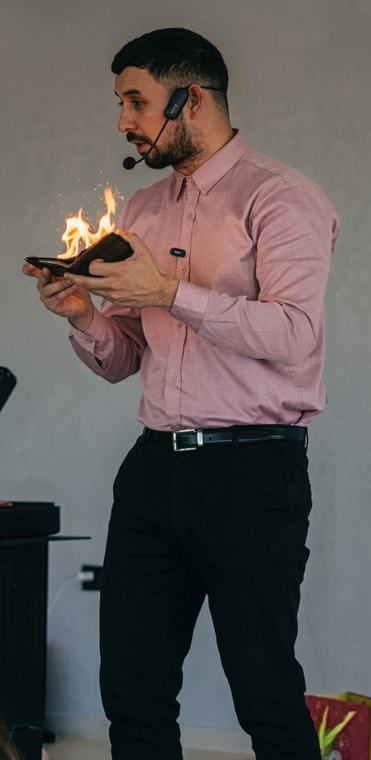
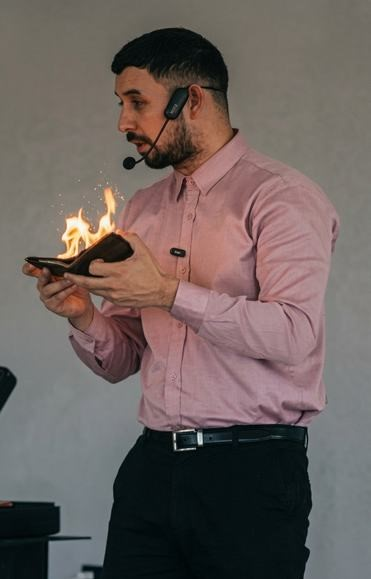
mensaje

diff --git a/portfolio.html b/portfolio.html
@@ -177,7 +177,9 @@
       <a href="imagenes/portfolio/sesion-05.jpg" data-lightbox data-cat="sesion"><img src="imagenes/portfolio/sesion-05-t.jpg" alt="Fabián Gi, mago e ilusionista" loading="lazy"></a>
       <a href="imagenes/portfolio/sesion-06.jpg" data-lightbox data-cat="sesion"><img src="imagenes/portfolio/sesion-06-t.jpg" alt="Fabián Gi, mago e ilusionista" loading="lazy"></a>
       <a href="imagenes/portfolio/sesion-07.jpg" data-lightbox data-cat="sesion"><img src="imagenes/portfolio/sesion-07-t.jpg" alt="Fabián Gi, mago e ilusionista" loading="lazy"></a>
-      <a href="imagenes/portfolio/casa-de-las-culturas-2024.jpg" data-lightbox data-cat="escenario"><img src="imagenes/portfolio/casa-de-las-culturas-2024-t.jpg" alt="Show de magia y humor para adultos" loading="lazy"></a>
+      <a href="imagenes/portfolio/casa-de-las-culturas-2024.jpg" data-lightbox data-cat="escenario"><img src="imagenes/portfolio/casa-de-las-culturas-2024.jpg" alt="Show de magia y humor para adultos" loading="lazy"></a>
+      <a href="imagenes/portfolio/casa de la cultura chaco.JPG" data-lightbox data-cat="escenario"><img src="imagenes/portfolio/casa de la cultura chaco.JPG" alt="Show de magia y humor para adultos" loading="lazy"></a>
+      <a href="imagenes/portfolio/casa de la cultura resistencia chaco.jfif" data-lightbox data-cat="escenario"><img src="imagenes/portfolio/casa de la cultura resistencia chaco.jfif" alt="Show de magia y humor para adultos" loading="lazy"></a>
       </div>
   </div>
 </section>
